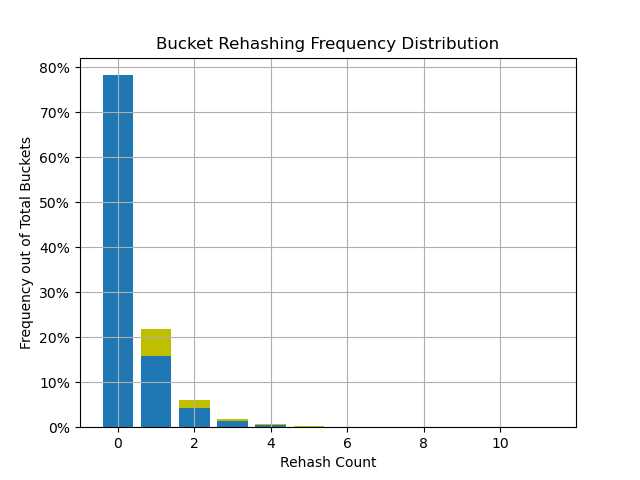
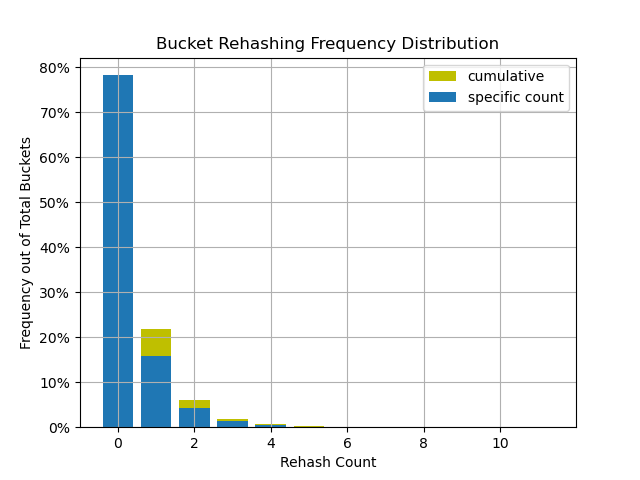
label bar stacks

Changed region(s): [[0.6562, 0.125, 0.9062, 0.2188]]

diff --git a/scripts/fp_rehash.py b/scripts/fp_rehash.py
@@ -39,13 +39,14 @@ print(percent_cumu)
 # fig = plt.figure()
 fig, ax = plt.subplots()
 # rehash.pop(0)
-plt.bar(rehash, percent_cumu, color='y')
-plt.bar(rehash, percent_count)
+plt.bar(rehash, percent_cumu, color='y', label='cumulative')
+plt.bar(rehash, percent_count, label='specific count')
 plt.plot(loc = "upper right")
 plt.xlabel("Rehash Count")
 plt.ylabel("Frequency out of Total Buckets")
 plt.title("Bucket Rehashing Frequency Distribution")
 ax.yaxis.set_major_formatter(mtick.PercentFormatter())
+ax.legend()
 
 
 """
